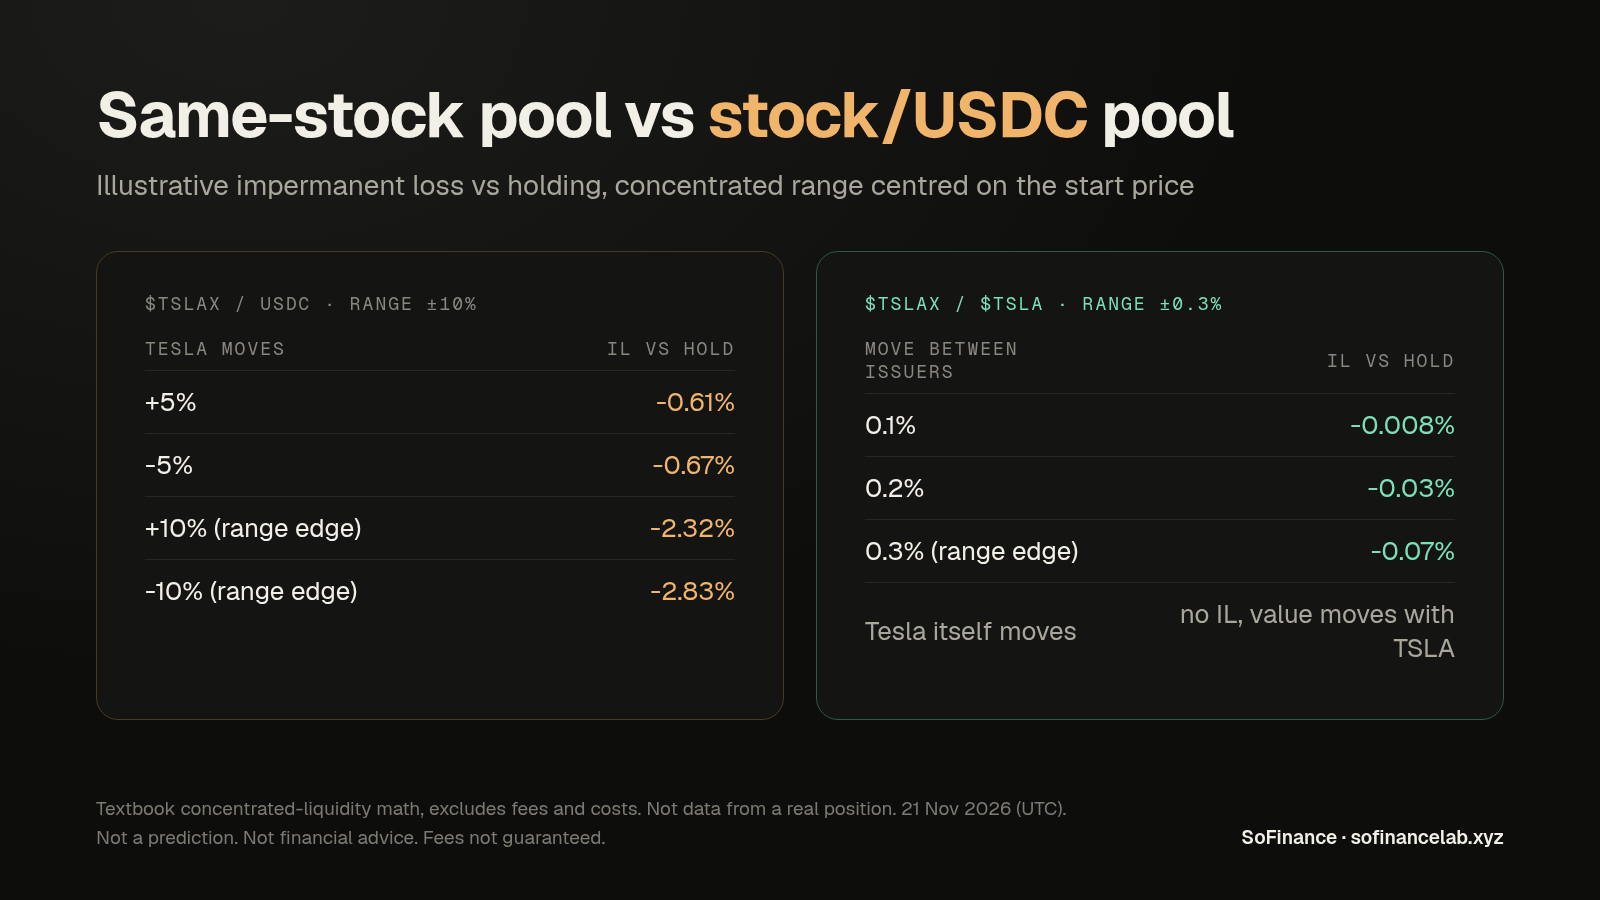
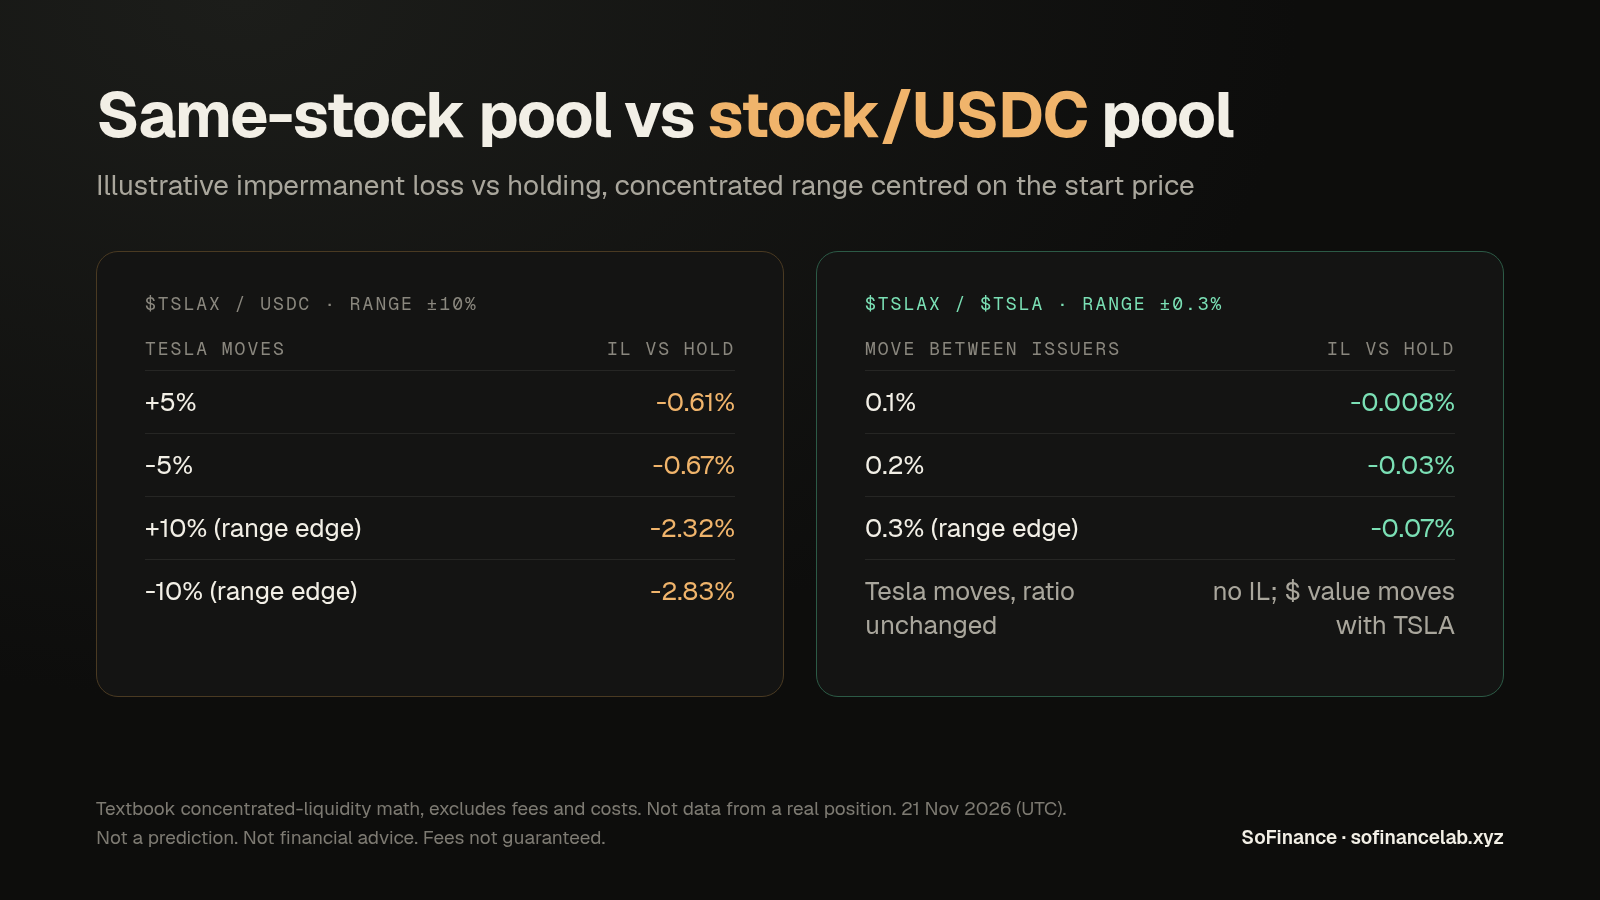
content(blog): hero assumption label; cross-link new posts from the LP guide

diff --git a/content/blog/how-to-provide-liquidity-raydium-orca-meteora.md b/content/blog/how-to-provide-liquidity-raydium-orca-meteora.md
@@ -197,6 +197,8 @@ Yes. The two tokens can drift apart in price, the issuers can freeze or restrict
 
 SoFinance is a self-custodial tool for same-stock positions on Raydium CLMM and Meteora DLMM on Solana, and Uniswap v4 on Robinhood Chain. You can open a position from a single token, see a suggested range based on recent fee data, and sign in your own wallet. The position stays a standard Raydium or Meteora position, so you can also manage it directly on that venue. We charge 0.10% only when we swap tokens for you; see [Pricing](/fees). We do not support Orca today. The full pool list is on the [pools page](/pools).
 
+Related reading: [what to do when a position goes out of range](/blog/lp-position-out-of-range), [how to compound LP trading fees on Raydium and Meteora](/blog/compound-lp-trading-fees-raydium-meteora), [same-stock pool vs stock/USDC pool](/blog/same-stock-pool-vs-stock-usdc-pool), [the xStocks multiplier, explained](/blog/xstocks-multiplier-explained) and [Robinhood Chain stock LP on Uniswap v4](/blog/robinhood-chain-stock-lp-uniswap-v4).
+
 ---
 
 *Data and docs checked on 20 November 2026 (UTC). Pool numbers change by the minute. Not financial advice. Fees not guaranteed.*
